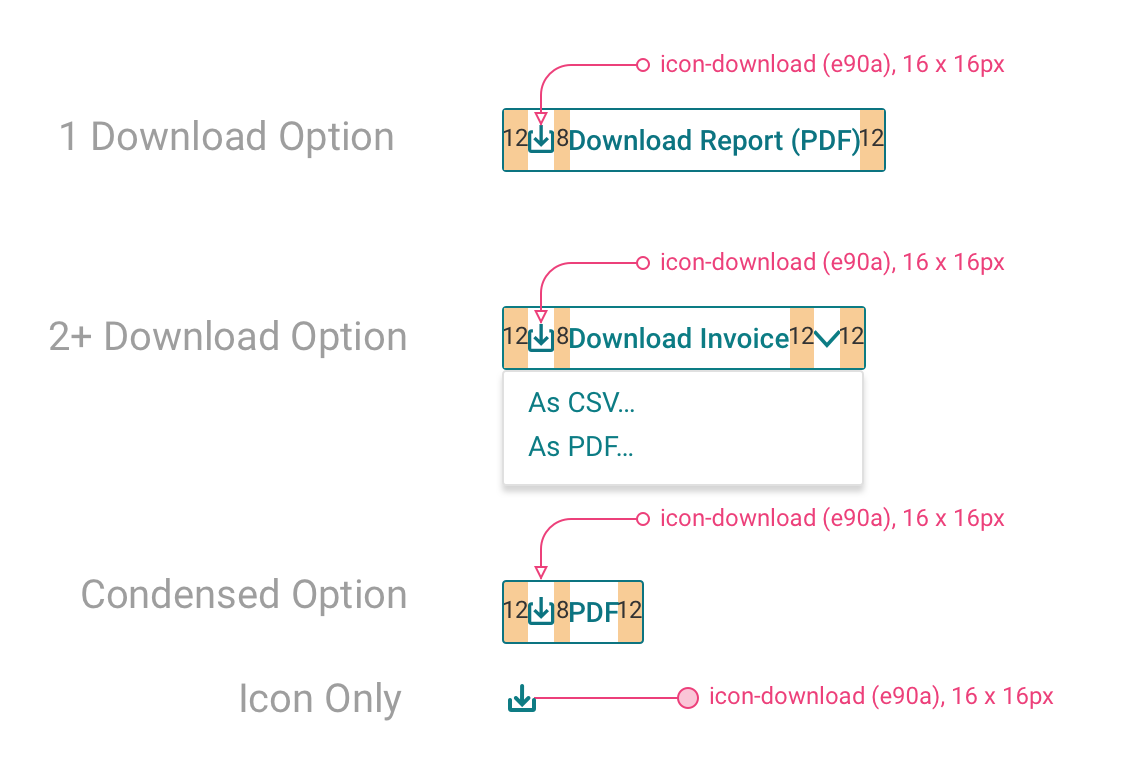
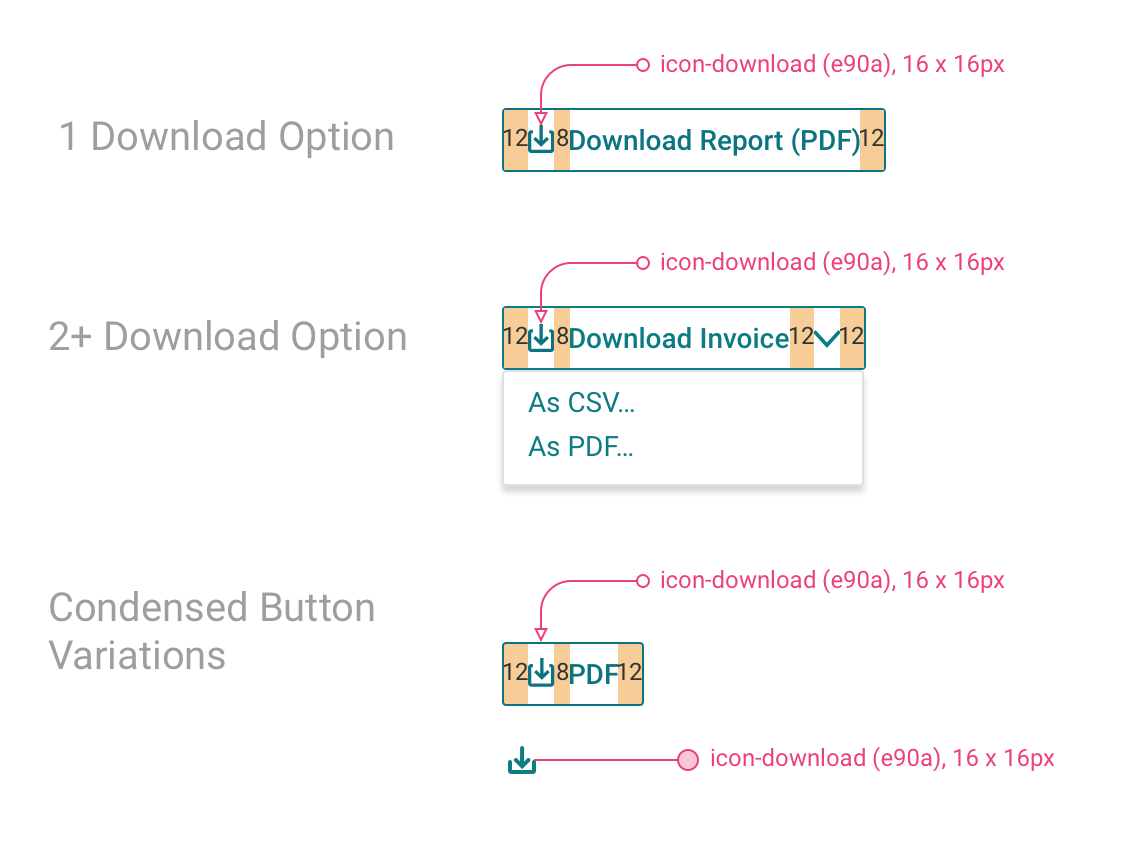
docs(download-btn): update for Laura editorial review

diff --git a/_component_design/buttons.md b/_component_design/buttons.md
@@ -8,7 +8,7 @@ usage: >
 preview-image: preview-images/buttons.svg
 status: stable
 resource: true
-last-modified: 2017-10-23
+last-modified: 2018-02-12
 helix-ui-css: true
 helix-ui-javascript: false
 ---
@@ -375,13 +375,13 @@ Split drop-down buttons are preferred when more than one action is associated wi
 
 {% column left:"hxCol-4 hxCol-xs-12 hxCol-sm-12 hxCol-md-4 hxCol-lg-4" %}
 
-### Download / export buttons
+### Download or export buttons
 
-- Download links **are always** formatted as: Download [noun] as [format]. 
-- Download is a word that focuses about the user's benefit because there is no ambiguity about the destination (the user's platform) and it will then be theirs.
-- Download links come in 4 layouts. The preferred layouts are the 1 and 2+ Download Options.
-- Use the condensed option in situations where space is too limited to use one of the preferred options.
-- The icon only option should be limited to use in toolbar.
+- Download links are **always** formatted as: Download [noun] as [format]. 
+- Use the word **Download** because there is no ambiguity about the destination (the user's platform). The word focuses on the user's benefit because the downloaded object becomes the user's.
+- Download links come in 4 layouts. The preferred layouts are the 1- and 2+- Download options
+- Use a condensed button variation in situations where space is too limited to use one of the preferred options.
+- The icon-only variation should be limited to use in a toolbar.
 
 
 {% endcolumn %}
@@ -405,9 +405,9 @@ Split drop-down buttons are preferred when more than one action is associated wi
 
 #### Specifications
 
-Specs are the same as those used in simple buttons and dropdown buttons, except a Download Icon is placed before the button label.
+The specs are the same as those used in simple buttons and dropdown buttons, except a Download icon is placed before the button label.
 
-In most situations download buttons should be secondary, but in situations where download is the primary action on a page, a primary button may be used.
+In most situations, download buttons should be secondary, but when downloading is the primary action on a page, a primary button may be used.
 
 {% endcolumn %}
 

diff --git a/_component_design/assisted-search.md b/_component_design/assisted-search.md
@@ -8,7 +8,7 @@ usage: >
 preview-image: preview-images/assisted-search.svg
 resource: true
 status: stable
-last-modified: 2017-11-07
+last-modified: 2018-02-12
 ---
 
 {% include toc.html %}
